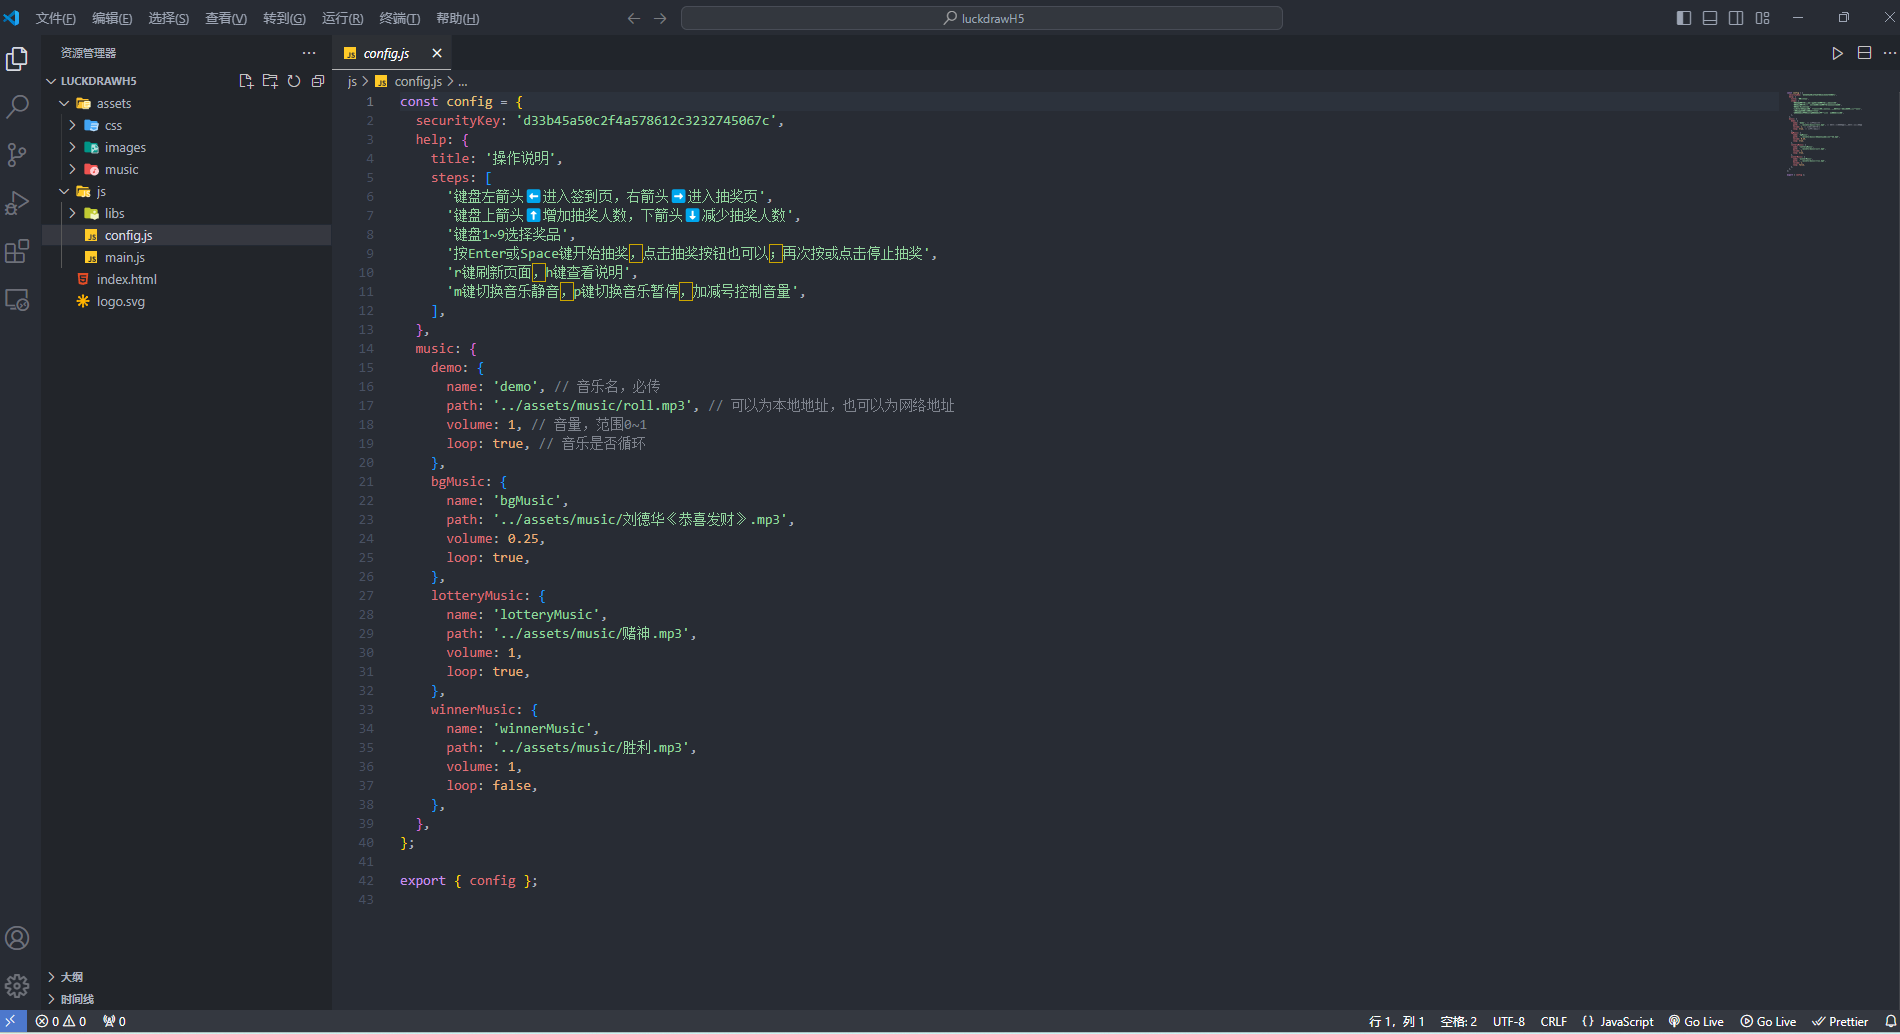
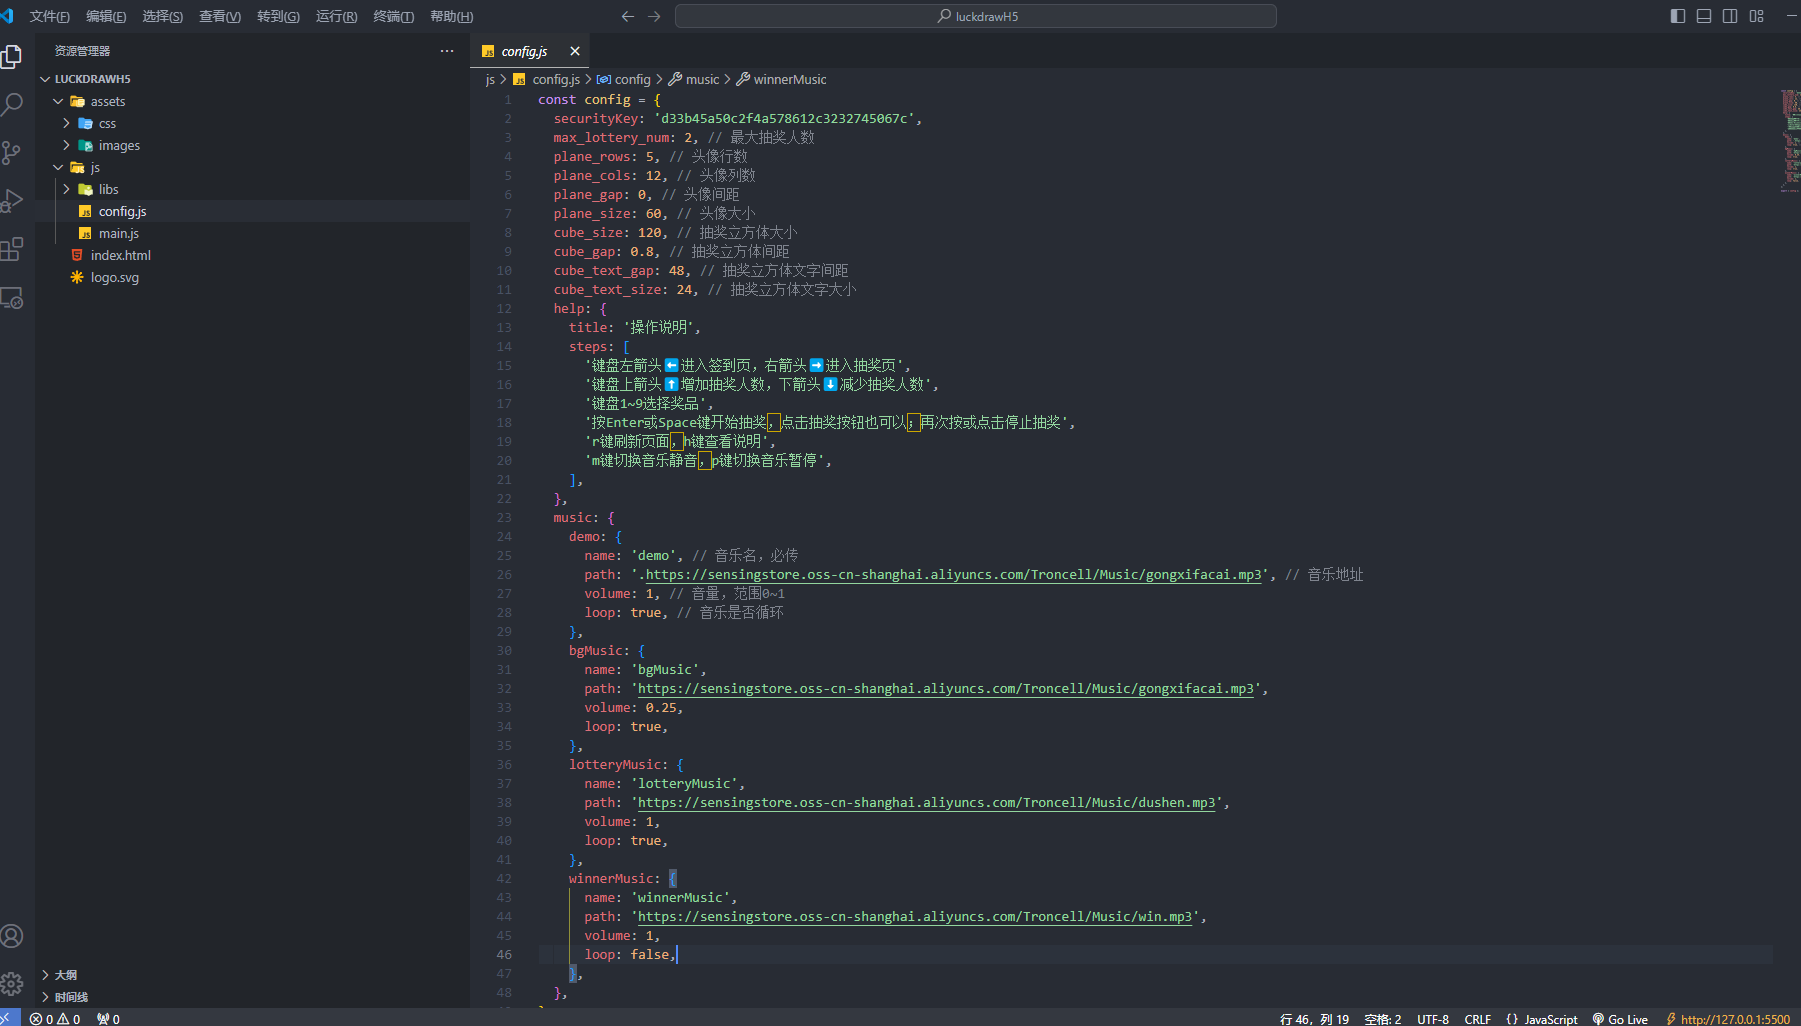
nianhui

diff --git a/Docs/Activity/年会活动.md b/Docs/Activity/年会活动.md
@@ -188,6 +188,15 @@
 ```
 const config = {
 securityKey: 'd33b45a50c2f4a578612c3232745067c',//sensingstore平台里的游戏密钥配置
+  max_lottery_num: 2, // 最大抽奖人数
+  plane_rows: 5, // 头像行数
+  plane_cols: 12, // 头像列数
+  plane_gap: 0, // 头像间距
+  plane_size: 60, // 头像大小
+  cube_size: 120, // 抽奖立方体大小
+  cube_gap: 0.8, // 抽奖立方体间距
+  cube_text_gap: 48, // 抽奖立方体文字间距
+  cube_text_size: 24, // 抽奖立方体文字大小
 help: {
 title: '操作说明',
 steps: [
@@ -254,3 +263,10 @@ export { config };
 | 下箭头 ⬇           | 设置同时抽奖人数（减少）   |
 | R                  | 刷新页面                   |
 | P                  | 切换音乐暂停               |
+
+4.奖品页面
+![1712022839974](https://sensingstore.oss-cn-shanghai.aliyuncs.com/Troncell/Knowledge/Docs/Activity/image/%E5%B9%B4%E4%BC%9A%E6%B4%BB%E5%8A%A8/1712022839974.png)
+
+5.中奖页面
+
+![1712023123145](https://sensingstore.oss-cn-shanghai.aliyuncs.com/Troncell/Knowledge/Docs/Activity/image/%E5%B9%B4%E4%BC%9A%E6%B4%BB%E5%8A%A8/1712023123145.png)

diff --git a/Docs/Sample/SensingApp安装.md b/Docs/Sample/SensingApp安装.md
@@ -46,11 +46,11 @@
 
 1. 调试机器货道：串口设备和波特率设置
 
-   <img style="width:200px" class="right" src="https://sensingstore.oss-cn-shanghai.aliyuncs.com/Troncell/Knowledge/Docs/Sample/image/SensingApp%E5%AE%89%E8%A3%85/1711432134134.png" alt="Deviceimages" />
+<img style="width:200px" class="right" src="https://sensingstore.oss-cn-shanghai.aliyuncs.com/Troncell/Knowledge/Docs/Sample/image/SensingApp%E5%AE%89%E8%A3%85/1711432134134.png" alt="Deviceimages" />
 
-   （1）下拉选择互动软件
+（1）下拉选择互动软件
 
-   （2）串口设备和波特率选择（需要根据不同的贩卖机进行更改）：
+（2）串口设备和波特率选择（需要根据不同的贩卖机进行更改）：
 
 | 设备           | vectorFolderName | 波特率 | 串口设备     |
 | -------------- | ---------------- | ------ | ------------ |

diff --git a/Docs/UnmannedShop/后台操作.md b/Docs/UnmannedShop/后台操作.md
@@ -218,7 +218,6 @@ Sku 和商品：当前租户下的商品列表里的产品
 
 库存：
 库存必须小于等于库存容量
-若您需要补货，您需要去活动下奖项列表中进行补货
 
 ![输入图片说明](https://images.gitee.com/uploads/images/2021/0603/140317_1e0f1d03_8867015.png "屏幕截图.png")
 ![输入图片说明](https://foruda.gitee.com/images/1680767999243027044/c6b3a52b_8867015.png "屏幕截图")
